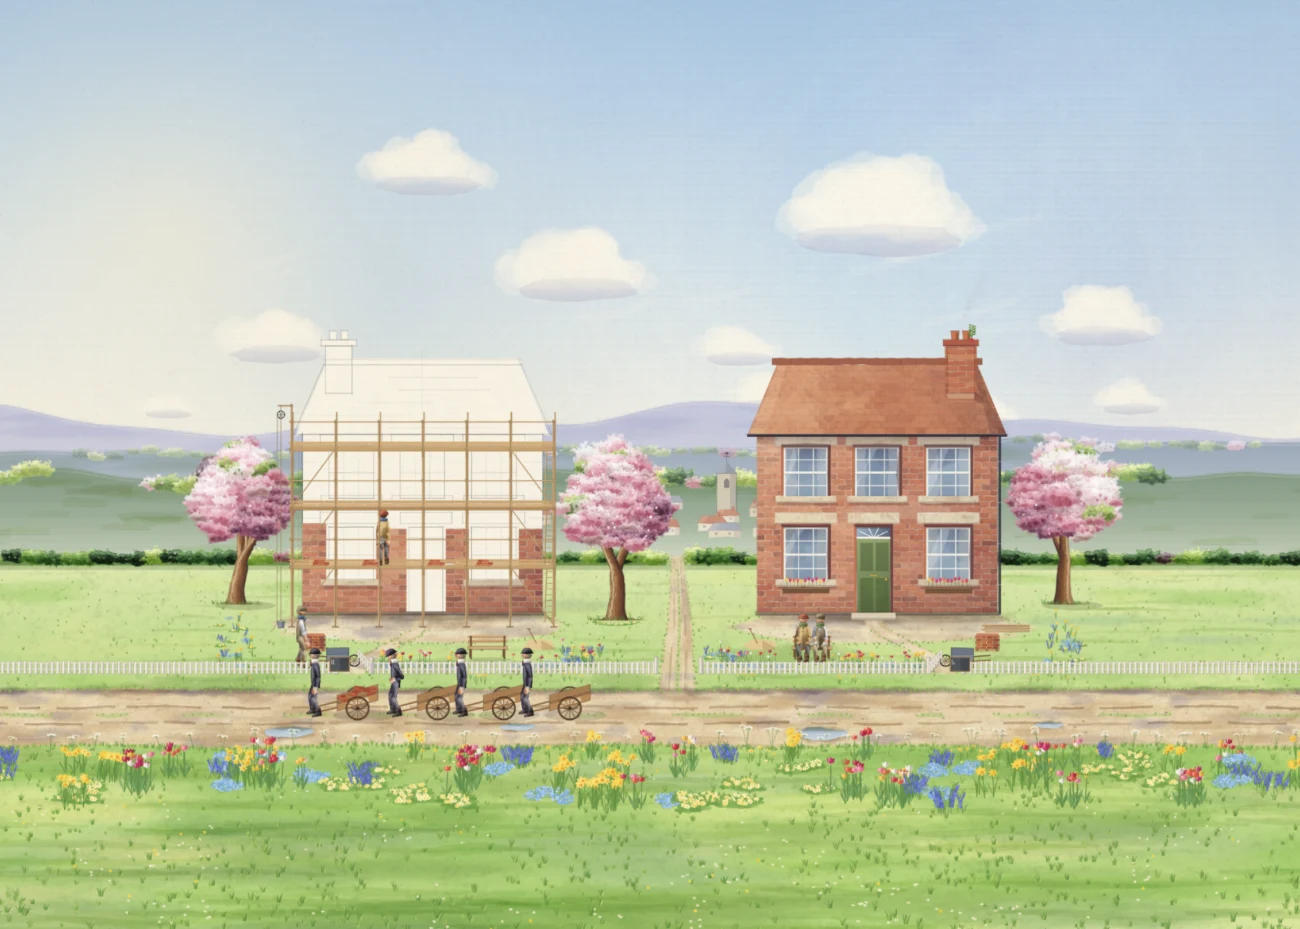
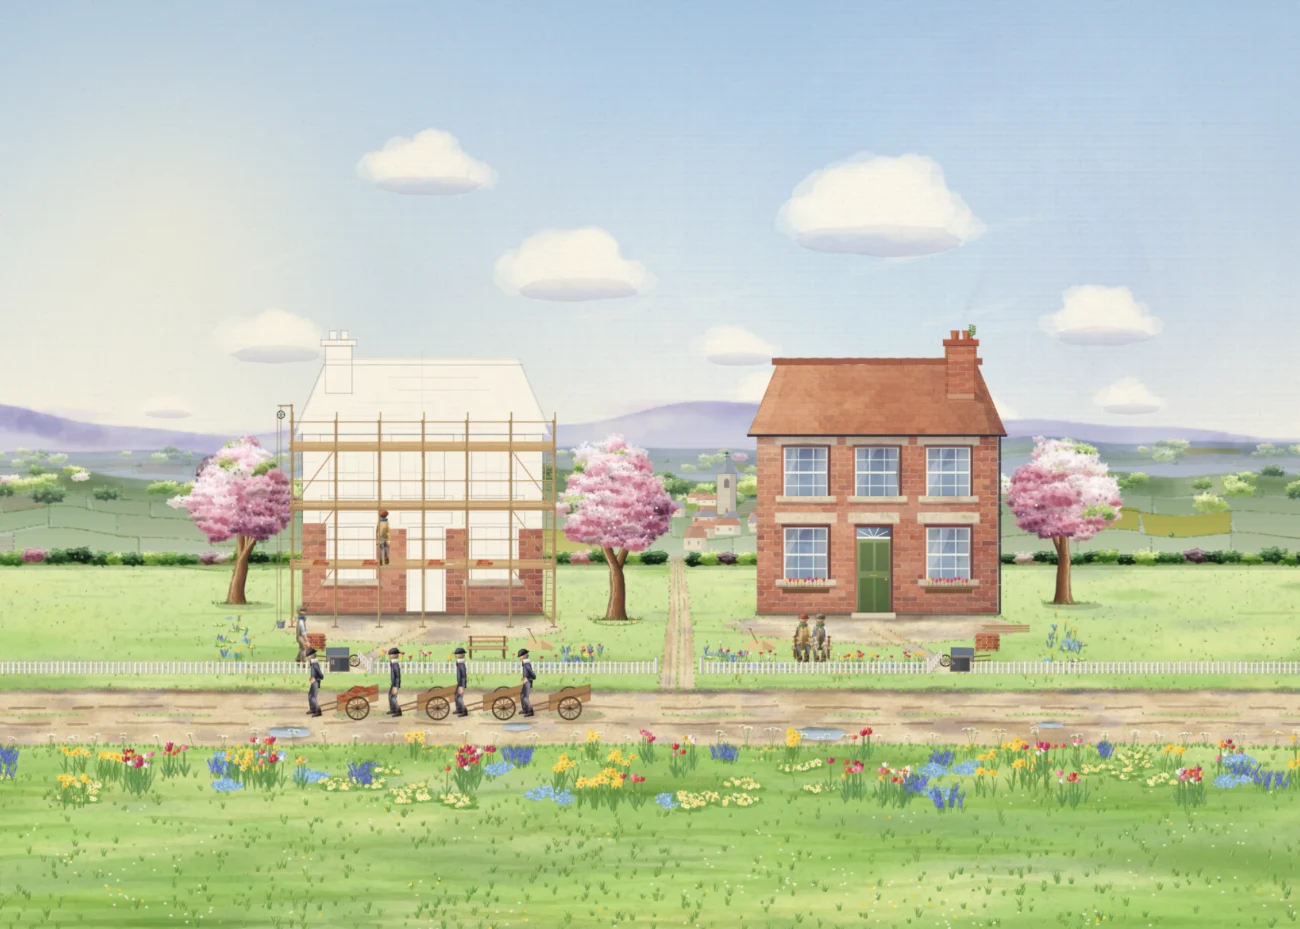
Brick by Brick: the hills touched up (lit and shaded slopes, a patchwork of fields and hedgerows, woods in clusters, the village kept in view)

diff --git a/src/brick/scene/world.ts b/src/brick/scene/world.ts
@@ -8,7 +8,7 @@
  * Translucent washes lit from the upper left, paper tooth, a few broken ink lines. The two houses are reserved
  * (left as paper) so their pencil drawings sit on clean paper.
  */
-import { Rand } from '../../scene/prng';
+import { Rand, clamp } from '../../scene/prng';
 import { deform, makeCanvas, rgba, tracePoly } from '../../scene/watercolor';
 import { SoftLayer, bloom, flowerDab } from '../../river/scene/paint';
 import { mix } from '../../river/scene/boatInk';
@@ -83,7 +83,8 @@ export async function buildWorld(cam: Camera, check: () => boolean): Promise<Wor
   paintCopses(ctx, rnd, v, leaf, blossom);
   await tick();
   if (!check()) return null;
-  paintVillage(ctx, rnd);
+  // the village has its own seed, so painting anything before it differently never moves a house
+  paintVillage(ctx, new Rand(70111));
   paintHedge(ctx, rnd, v, leaf, blossom);
   await tick();
   if (!check()) return null;
@@ -128,41 +129,55 @@ export async function buildWorld(cam: Camera, check: () => boolean): Promise<Wor
 function paintHills(ctx: CanvasRenderingContext2D, rnd: Rand, v: View): void {
   const y0 = 200;
   const y1 = HEDGE_Y + 10;
-  const X = xs(v.x0, v.x1, 18);
+  const X = xs(v.x0, v.x1, 16);
   const soft = new SoftLayer(v.x0, y0, v.x1 - v.x0, y1 - y0, 0.45);
-  const range = (ridge: (x: number) => number, base: number, color: string, a: number, crisp: number) => {
+  const range = (ridge: (x: number) => number, color: string, a: number, crisp: number, pool: number) => {
     const pts: number[] = [];
     for (const x of X) pts.push(x, ridge(x));
-    for (let i = X.length - 1; i >= 0; i--) pts.push(X[i]!, base);
+    for (let i = X.length - 1; i >= 0; i--) pts.push(X[i]!, y1);
     const top = Math.min(...X.map(ridge));
     soft.ctx.clearRect(v.x0, y0, v.x1 - v.x0, y1 - y0);
-    const g = soft.ctx.createLinearGradient(0, top, 0, base);
-    g.addColorStop(0, rgba(color, a));
-    g.addColorStop(0.6, rgba(color, a * 0.7));
-    g.addColorStop(1, rgba(color, a * 0.25));
+    const g = soft.ctx.createLinearGradient(0, top, 0, y1);
+    g.addColorStop(0, rgba(color, a * 0.95));
+    g.addColorStop(0.45, rgba(color, a * 0.75));
+    g.addColorStop(1, rgba(color, a * 0.3));
     soft.ctx.fillStyle = g;
     for (let i = 0; i < 2; i++) {
       tracePoly(soft.ctx, deform(pts, rnd, 2, 0.012));
       soft.ctx.fill();
     }
     soft.draw(ctx, 1, 'multiply');
+    // a second, crisper pass that is strongest at the ridge (the edge a painter leaves where the wash dried)
     ctx.globalCompositeOperation = 'multiply';
-    ctx.fillStyle = rgba(color, a * crisp * 0.5);
+    const g2 = ctx.createLinearGradient(0, top, 0, top + 40);
+    g2.addColorStop(0, rgba(color, a * crisp));
+    g2.addColorStop(1, rgba(color, a * crisp * 0.25));
+    ctx.fillStyle = g2;
     tracePoly(ctx, deform(pts, rnd, 3, 0.02));
     ctx.fill();
-    ctx.globalCompositeOperation = 'source-over';
-    ctx.strokeStyle = rgba(mix(color, '#3A3A5A', 0.4), 0.12 + crisp * 0.06);
+    // the pigment pooled along the ridge, broken
+    ctx.strokeStyle = rgba(mix(color, '#4A4A6A', 0.3), pool);
     ctx.lineWidth = 0.8;
-    ctx.setLineDash([36, 6, 14, 4]);
+    ctx.setLineDash([40, 8, 16, 6]);
     ctx.beginPath();
-    X.forEach((x, i) => (i ? ctx.lineTo(x, ridge(x) + 0.6) : ctx.moveTo(x, ridge(x) + 0.6)));
+    X.forEach((x, i) => (i ? ctx.lineTo(x, ridge(x) + 0.7 + rnd.range(-0.3, 0.3)) : ctx.moveTo(x, ridge(x) + 0.7)));
     ctx.stroke();
     ctx.setLineDash([]);
-    ctx.strokeStyle = 'rgba(255,250,228,0.18)';
-    ctx.lineWidth = 1.5;
-    ctx.beginPath();
-    X.forEach((x, i) => (i ? ctx.lineTo(x, ridge(x) + 2.2) : ctx.moveTo(x, ridge(x) + 2.2)));
-    ctx.stroke();
+    ctx.globalCompositeOperation = 'source-over';
+  };
+  // the light and the shade on the slopes: the sun is upper left, so a slope rising to the right faces it (lit,
+  // warm) and one falling to the right faces away (shaded, cool), softest in the far range
+  const slopes = (ridge: (x: number) => number, shade: string, a: number, depth: number, sun: number) => {
+    for (const lit of [false, true]) {
+      soft.ctx.clearRect(v.x0, y0, v.x1 - v.x0, y1 - y0);
+      for (let x = v.x0; x < v.x1; x += rnd.range(14, 24)) {
+        const d = ridge(x + 12) - ridge(x - 12);
+        if (Math.abs(d) < 0.8 || d < 0 !== lit) continue;
+        const k = clamp(Math.abs(d) / 6, 0.3, 1);
+        bloom(soft.ctx, x, ridge(x) + depth * 0.45, rnd.range(16, 30), depth * 0.5, lit ? LIT : shade, (lit ? sun : a) * k, rnd, 3);
+      }
+      soft.draw(ctx, 1, lit ? 'source-over' : 'multiply');
+    }
   };
   const blooms = (ridge: (x: number) => number, n: number, cols: string[], a: number, rx: [number, number], ry: [number, number], dy: [number, number]) => {
     soft.ctx.clearRect(v.x0, y0, v.x1 - v.x0, y1 - y0);
@@ -172,40 +187,107 @@ function paintHills(ctx: CanvasRenderingContext2D, rnd: Rand, v: View): void {
     }
     soft.draw(ctx, 1, 'multiply');
   };
-  range(ridgeFar, y1, '#A9AED6', 0.3, 0.55);
-  blooms(ridgeFar, 10, ['#B8B4DC', '#A2B6DA', '#C2C8E0'], 0.12, [50, 140], [6, 14], [8, 24]);
+  // farthest: hazy blue-violet with a touch of rose, bleeding into the sky
+  range(ridgeFar, '#A8AAD6', 0.3, 0.5, 0.08);
+  blooms(ridgeFar, 12, ['#C0AED8', '#9DB0DA', '#B6B6DA', '#CFB0C6'], 0.14, [50, 140], [7, 15], [6, 26]);
+  slopes(ridgeFar, '#8A88B8', 0.12, 30, 0.1);
   haze(ctx, v, y0 + 60, y1, 0.3);
-  range(ridgeMid, y1, '#96B0B4', 0.3, 0.6);
-  blooms(ridgeMid, 14, ['#A8C08C', '#B4C894', '#9CB4B8', '#C2CC96'], 0.14, [40, 110], [6, 12], [6, 20]);
-  haze(ctx, v, y0 + 80, y1, 0.26);
-  range(ridgeNear, y1, '#A2BE7E', 0.34, 0.7);
-  blooms(ridgeNear, 16, ['#B8D284', '#9CBA6E', '#C8D88E', '#A8C27A', '#D2D68C'], 0.16, [36, 110], [5, 11], [4, 18]);
+  // middle: a cooler blue-green, the first fields and woods just showing
+  range(ridgeMid, '#9CB2B8', 0.3, 0.55, 0.09);
+  blooms(ridgeMid, 16, ['#A8C08C', '#B4C894', '#9CB4B8', '#C2CC96', '#A4AEC8'], 0.15, [40, 110], [6, 12], [6, 20]);
+  slopes(ridgeMid, '#7E9AA4', 0.14, 26, 0.12);
+  patchwork(ctx, rnd, v, ridgeMid, [8, 16, 26], ['#B4CA8E', '#C4D29A', '#A8C084', '#C8C0A0'], 0.2, '#7C9A7A', 0.3, 0.9);
+  haze(ctx, v, y0 + 80, y1, 0.24);
+  // nearer: fresh spring green, sun on the slopes facing it
+  range(ridgeNear, '#A6C080', 0.34, 0.62, 0.1);
+  blooms(ridgeNear, 18, ['#B8D284', '#9CBA6E', '#C8D88E', '#A8C27A', '#D2D68C'], 0.16, [36, 110], [5, 11], [4, 18]);
+  slopes(ridgeNear, '#6E9060', 0.16, 30, 0.2);
+}
+
+const LIT = '#FFF6D8';
+
+/**
+ * Fields on a slope, in rows following the ridge (`offs`: each row's top below the ridge, the last is the bottom):
+ * each field its own wash (fresh grass, young corn, pale meadow, ploughed earth with its furrows, now and then a
+ * blaze of rapeseed), the hedgerows between them dotted in with small dabs, and a hedgerow tree here and there.
+ */
+function patchwork(ctx: CanvasRenderingContext2D, rnd: Rand, v: View, ridge: (x: number) => number, offs: number[], cols: string[], a: number, hedge: string, hedgeA: number, dab: number): void {
+  for (let r = 0; r < offs.length - 1; r++) {
+    let x = v.x0 - rnd.range(0, 60);
+    while (x < v.x1) {
+      const w = rnd.range(46, 110) * (0.8 + r * 0.2);
+      const t0 = rnd.range(-0.05, 0.05);
+      const t1 = t0 + rnd.range(-0.03, 0.03);
+      const top = (xx: number) => ridge(xx) + offs[r]! + (xx - x) * t0;
+      const bot = (xx: number) => ridge(xx) + offs[r + 1]! + (xx - x) * t1;
+      const poly: number[] = [];
+      for (let xx = x; xx <= x + w; xx += 8) poly.push(xx, top(xx));
+      poly.push(x + w, top(x + w));
+      poly.push(x + w, bot(x + w));
+      for (let xx = x + w; xx >= x; xx -= 8) poly.push(xx, bot(xx));
+      const kind = rnd.next();
+      const col = kind < 0.06 ? '#F0D648' : kind < 0.16 ? '#C4A07A' : rnd.pick(cols);
+      ctx.globalCompositeOperation = 'multiply';
+      ctx.fillStyle = rgba(col, a * (kind < 0.06 ? 2.4 : rnd.range(0.8, 1.3)));
+      tracePoly(ctx, deform(poly, rnd, 2, 0.03));
+      ctx.fill();
+      ctx.globalCompositeOperation = 'source-over';
+      // ploughed: the furrows, following the field's top edge
+      if (kind >= 0.06 && kind < 0.16) {
+        ctx.strokeStyle = rgba('#8A6A4A', a * 1.2);
+        ctx.lineWidth = 0.35;
+        const h = bot(x + w / 2) - top(x + w / 2);
+        for (let f = 1; f < 5; f++) {
+          ctx.beginPath();
+          for (let xx = x + 2; xx <= x + w - 2; xx += 6) {
+            const y = top(xx) + (h * f) / 5;
+            if (xx === x + 2) ctx.moveTo(xx, y);
+            else ctx.lineTo(xx, y);
+          }
+          ctx.stroke();
+        }
+      }
+      // the hedgerows: along the field's bottom and down its left side, dotted in
+      const dabs = (pts: Array<[number, number]>) => {
+        for (const [hx, hy] of pts) {
+          if (rnd.chance(0.12)) continue;
+          ctx.fillStyle = rgba(rnd.pick([hedge, mix(hedge, '#3E5A3A', 0.3), mix(hedge, '#A8C080', 0.3)]), hedgeA * rnd.range(0.7, 1.2));
+          ctx.beginPath();
+          ctx.ellipse(hx, hy, dab * rnd.range(0.8, 1.4), dab * rnd.range(0.5, 0.9), 0, 0, Math.PI * 2);
+          ctx.fill();
+        }
+      };
+      const along: Array<[number, number]> = [];
+      for (let xx = x; xx <= x + w; xx += dab * 2.2) along.push([xx, bot(xx)]);
+      dabs(along);
+      const down: Array<[number, number]> = [];
+      for (let yy = top(x); yy <= bot(x); yy += dab * 1.6) down.push([x, yy]);
+      dabs(down);
+      // a hedgerow tree: a round crown, lit on its upper left
+      if (rnd.chance(0.3)) {
+        const tx = x + rnd.range(0, w);
+        const ty = bot(tx);
+        const tr = dab * rnd.range(2.4, 3.6);
+        ctx.fillStyle = rgba(mix(hedge, '#3E5A3A', 0.35), hedgeA * 1.6);
+        ctx.beginPath();
+        ctx.ellipse(tx, ty - tr * 0.8, tr, tr * 0.85, 0, 0, Math.PI * 2);
+        ctx.fill();
+        ctx.fillStyle = rgba('#DCE8A8', hedgeA * 1.1);
+        ctx.beginPath();
+        ctx.ellipse(tx - tr * 0.3, ty - tr * 1.1, tr * 0.5, tr * 0.38, 0, 0, Math.PI * 2);
+        ctx.fill();
+      }
+      x += w;
+    }
+  }
 }
 
 /* ------------------------------------------------------------------ fields and copses */
 
 function paintFields(ctx: CanvasRenderingContext2D, rnd: Rand, v: View): void {
-  // a patchwork on the nearer slope: fresh grass, young corn, a ploughed field or two, the hedgerows between
-  for (let i = 0; i < 54; i++) {
-    const x = rnd.range(v.x0, v.x1);
-    const y = rnd.range(ridgeNear(x) + 6, HEDGE_Y - 8);
-    const w = rnd.range(30, 90);
-    const h = rnd.range(3, 8);
-    ctx.globalCompositeOperation = 'multiply';
-    ctx.fillStyle = rgba(rnd.pick(['#C8DC8C', '#B2CE78', '#D8E2A0', '#A6C474', '#C9B48C', '#BEC88A']), rnd.range(0.12, 0.24));
-    tracePoly(ctx, deform([x, y, x + w * 0.5, y - h * 0.35, x + w, y - h * 0.2, x + w * 0.95, y + h, x + w * 0.5, y + h * 1.1, x + w * 0.05, y + h], rnd, 2, 0.06));
-    ctx.fill();
-    ctx.globalCompositeOperation = 'source-over';
-    if (rnd.chance(0.5)) {
-      ctx.strokeStyle = rgba('#5E7A44', rnd.range(0.16, 0.28));
-      ctx.lineWidth = rnd.range(0.5, 1);
-      ctx.beginPath();
-      ctx.moveTo(x, y + h);
-      ctx.quadraticCurveTo(x + w * 0.5, y + h * 1.2 + rnd.range(-1, 1), x + w, y + h * 1.05);
-      ctx.stroke();
-    }
-  }
-  haze(ctx, v, ridgeNear(500) - 10, HEDGE_Y, 0.08);
+  // the near slope: rows of fields from the ridge down to the hedge, bigger as they come nearer
+  patchwork(ctx, rnd, v, ridgeNear, [10, 24, 42, 66, 96], ['#C8DC8C', '#B2CE78', '#D8E2A0', '#A6C474', '#BEC88A', '#D4DC9C'], 0.3, '#5E7E46', 0.5, 1.3);
+  haze(ctx, v, ridgeNear(500) - 10, HEDGE_Y, 0.06);
 }
 
 function pick(sp: Sprites, rnd: Rand, tones: SpriteKind[]) {
@@ -214,19 +296,31 @@ function pick(sp: Sprites, rnd: Rand, tones: SpriteKind[]) {
 }
 
 function paintCopses(ctx: CanvasRenderingContext2D, rnd: Rand, v: View, leaf: Sprites, blossom: Sprites): void {
-  // far: a band of small pale clumps along the middle ridge, veiled
+  // far: small woods on the middle range, in clusters spilling down its slopes, veiled
   const band = makeCanvas(ctx.canvas.width, ctx.canvas.height);
   const b = band.getContext('2d')!;
   b.setTransform(ctx.getTransform());
-  for (let x = v.x0; x < v.x1; x += rnd.range(12, 24)) {
-    if (Math.sin(x / 80 + 1.2) + 0.5 * Math.sin(x / 29) < -0.25) continue;
-    const bl = rnd.chance(0.12);
-    drawClump(b, pick(bl ? blossom : leaf, rnd, ['lit', 'mid', 'gold', 'shade']), x, ridgeMid(x) + rnd.range(3, 9), rnd.range(14, 22), rnd.chance(0.5));
-  }
+  const wood = (ridge: (x: number) => number, n: [number, number], size: [number, number], down: number, blossomChance: number, tones: SpriteKind[]) => {
+    for (let x = v.x0 + rnd.range(-30, 30); x < v.x1 + 40; x += rnd.range(60, 150)) {
+      const k = rnd.int(n[0], n[1]);
+      const spread = rnd.range(14, 40);
+      const pts: Array<[number, number]> = [];
+      for (let i = 0; i < k; i++) {
+        const cx = x + rnd.gauss() * spread;
+        pts.push([cx, ridge(cx) + Math.abs(rnd.gauss()) * down + rnd.range(1, 5)]);
+      }
+      pts.sort((p, q) => p[1] - q[1]);
+      for (const [cx, cy] of pts) {
+        const bl = rnd.chance(blossomChance);
+        drawClump(b, pick(bl ? blossom : leaf, rnd, bl ? ['lit', 'gold', 'mid'] : tones), cx, cy, rnd.range(size[0], size[1]) * (0.85 + (cy - ridge(cx)) / 60), rnd.chance(0.5));
+      }
+    }
+  };
+  wood(ridgeMid, [3, 9], [12, 20], 10, 0.1, ['lit', 'mid', 'gold', 'shade']);
   b.save();
   b.setTransform(1, 0, 0, 1, 0, 0);
   b.globalCompositeOperation = 'source-atop';
-  b.fillStyle = rgba(PAPER, 0.5);
+  b.fillStyle = rgba(PAPER, 0.48);
   b.fillRect(0, 0, band.width, band.height);
   b.fillStyle = 'rgba(152,168,214,0.18)';
   b.fillRect(0, 0, band.width, band.height);
@@ -235,20 +329,14 @@ function paintCopses(ctx: CanvasRenderingContext2D, rnd: Rand, v: View, leaf: Sp
   ctx.setTransform(1, 0, 0, 1, 0, 0);
   ctx.drawImage(band, 0, 0);
   ctx.restore();
-  // near: copses along the front ridge, a white blossom tree here and there
+  // near: copses along the front ridge and down its slopes, a white blossom tree here and there
   b.setTransform(1, 0, 0, 1, 0, 0);
   b.clearRect(0, 0, band.width, band.height);
   b.setTransform(ctx.getTransform());
-  for (let x = v.x0; x < v.x1; x += rnd.range(10, 20)) {
-    const patch = Math.sin(x / 70 + 0.4) + 0.55 * Math.sin(x / 27 + 2.3) + 0.25;
-    if (patch < -0.1) continue;
-    const bl = rnd.chance(0.16);
-    const base = ridgeNear(x) + rnd.range(2, 10);
-    drawClump(b, pick(bl ? blossom : leaf, rnd, bl ? ['lit', 'gold', 'mid'] : ['lit', 'mid', 'shade', 'gold']), x, base, rnd.range(22, 36), rnd.chance(0.5));
-  }
+  wood(ridgeNear, [4, 12], [18, 30], 16, 0.16, ['lit', 'mid', 'shade', 'gold']);
   b.setTransform(1, 0, 0, 1, 0, 0);
   b.globalCompositeOperation = 'source-atop';
-  b.fillStyle = rgba(PAPER, 0.22);
+  b.fillStyle = rgba(PAPER, 0.2);
   b.fillRect(0, 0, band.width, band.height);
   b.globalCompositeOperation = 'source-over';
   ctx.save();
@@ -271,10 +359,11 @@ interface Cottage {
 function paintVillage(ctx: CanvasRenderingContext2D, rnd: Rand): void {
   // a cluster of roofs on the rising ground behind the plots, the church tower among them; farther = smaller, paler
   const homes: Cottage[] = [];
-  for (let i = 0; i < 16; i++) {
+  for (let i = 0; i < 14; i++) {
     const y = rnd.range(338, 392);
     const k = 0.5 + (y - 338) / 120;
-    const x = rnd.range(330, 700);
+    // between the blossom tree and the right-hand house, where it can be seen
+    const x = rnd.range(508, 640);
     homes.push({ x, y, w: rnd.range(26, 44) * k, h: rnd.range(10, 16) * k, roof: rnd.range(9, 15) * k, slate: rnd.chance(0.35) });
   }
   homes.sort((a, b) => a.y - b.y);
